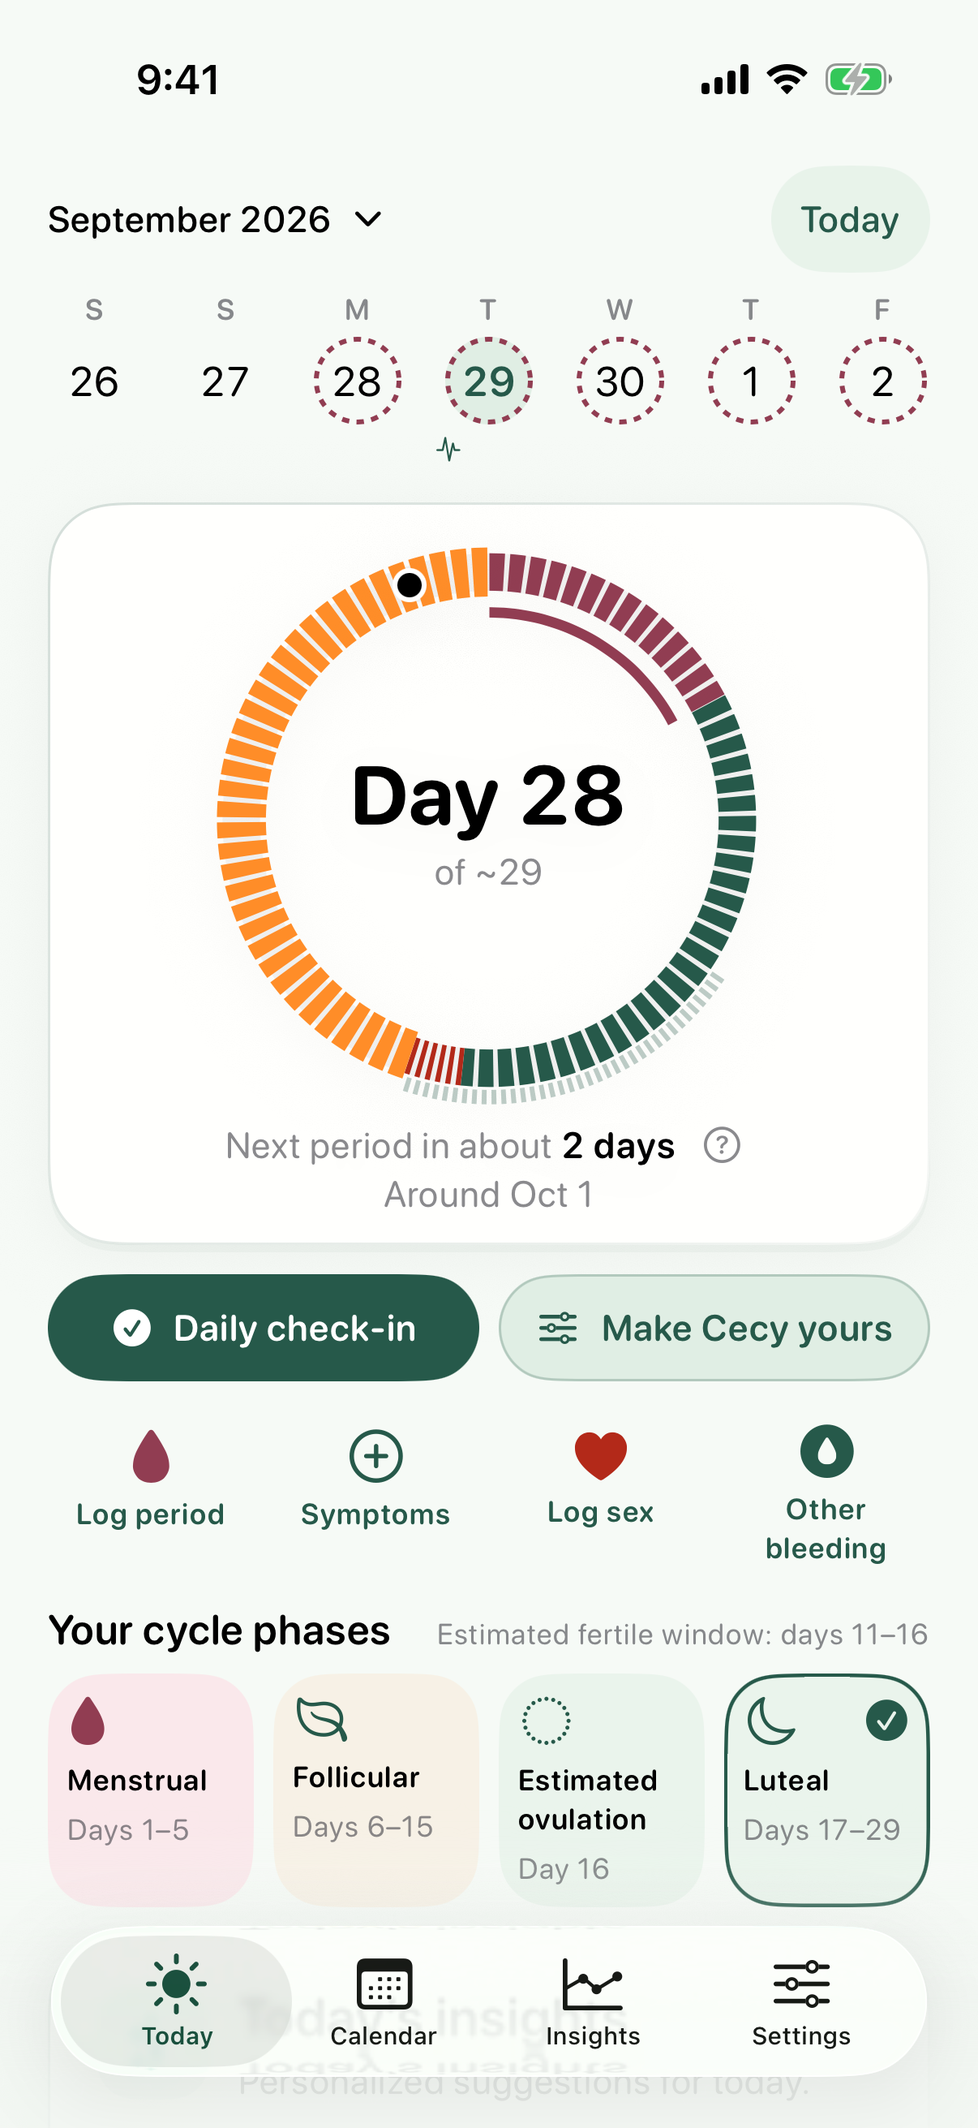
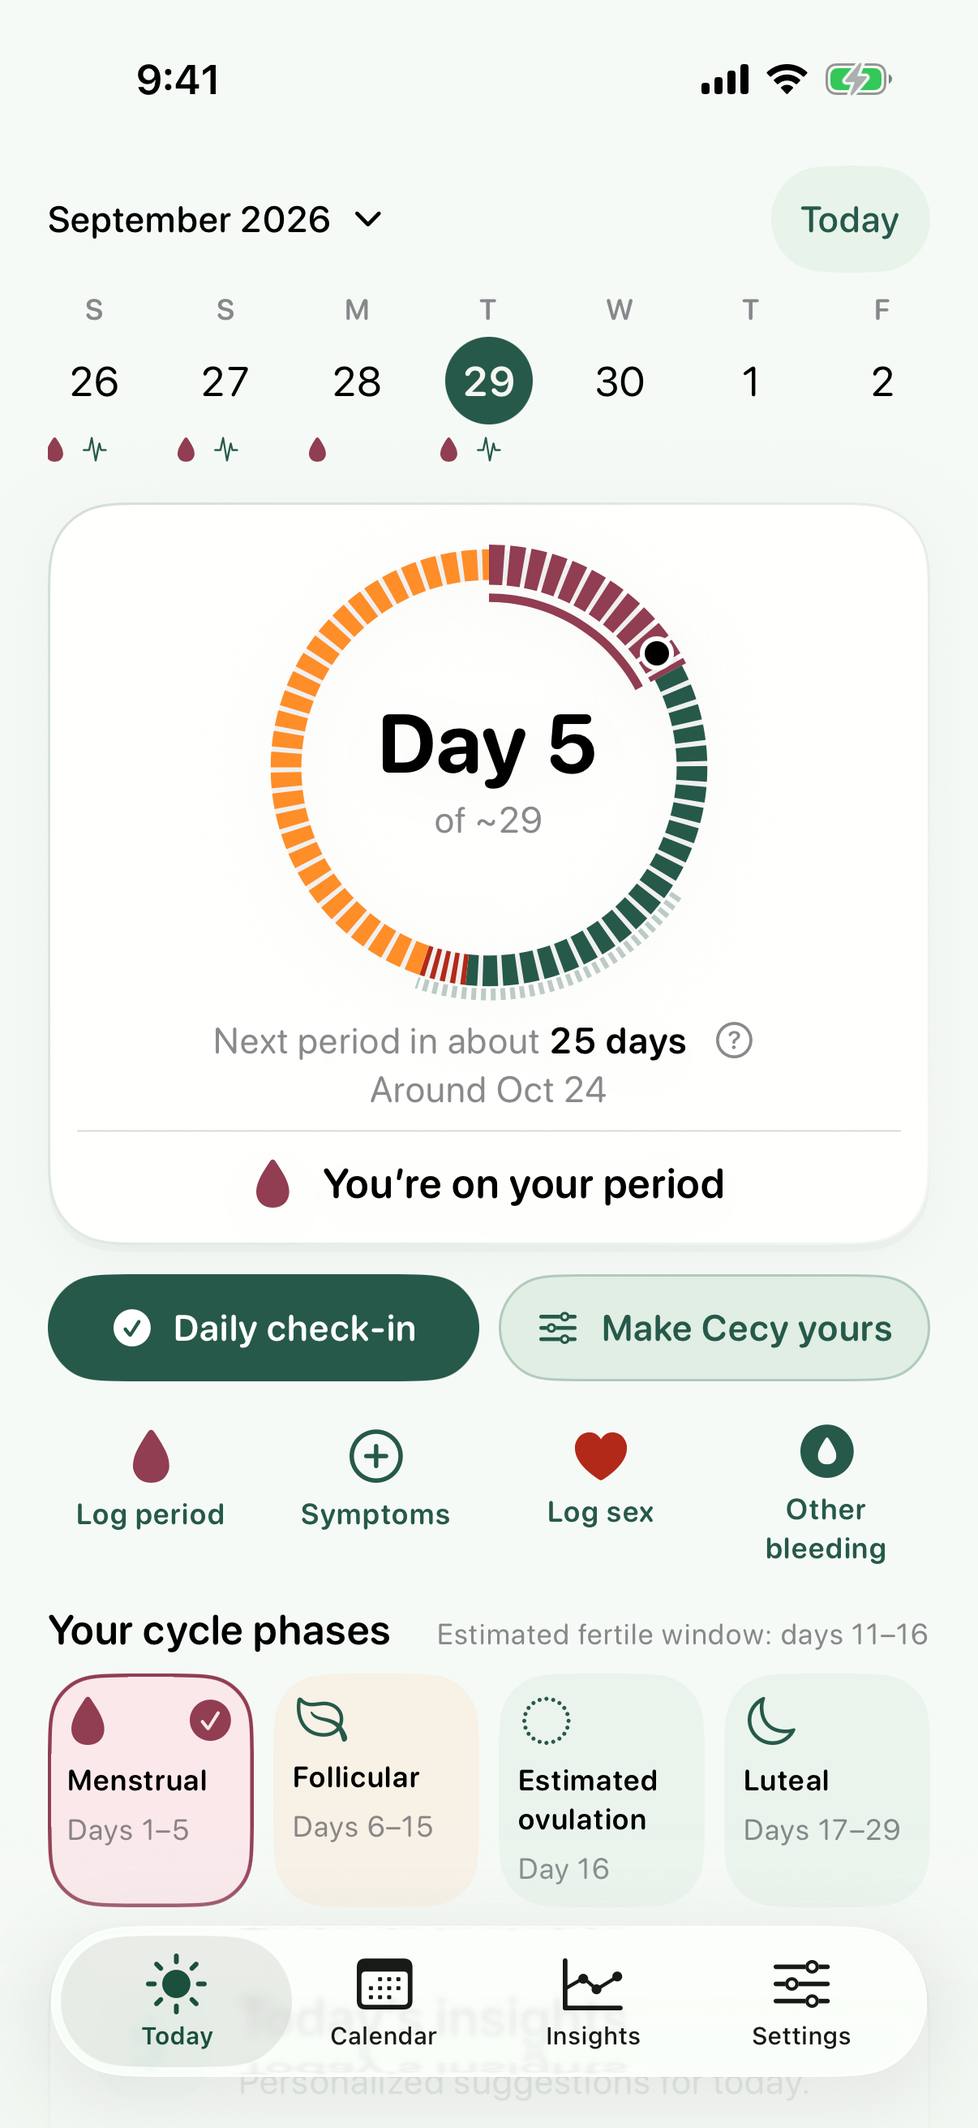
Rich showcase data for App Store screenshots and recapture all sizes

diff --git a/cecy/App/ShowcaseFixture.swift b/cecy/App/ShowcaseFixture.swift
@@ -1,0 +1,150 @@
+#if DEBUG
+import Foundation
+
+/// App Store screenshot data: six months of realistic, internally consistent records so every
+/// screenshotted screen (Today, check-in, Calendar, Insights, summary) has content. UI tests only.
+enum ShowcaseFixture {
+    static func seed(_ repository: SwiftDataPeriodRepository, now: Date) throws {
+        let today = try LocalDay(key: 20260929)
+        guard try repository.load().onboardingCompletedAt == nil else { return }
+
+        // Periods: natural 27–30 day cycles with 4–6 day periods.
+        let spans: [(Int, Int, PeriodFlow)] = [
+            (20260406, 5, .moderate), (20260504, 5, .heavy), (20260602, 4, .moderate),
+            (20260701, 6, .heavy), (20260729, 5, .moderate), (20260827, 5, .moderate), (20260925, 5, .heavy),
+        ]
+        var periods: [Period] = []
+        for (key, length, flow) in spans {
+            let start = try LocalDay(key: key)
+            let end = try start.adding(days: length - 1)
+            periods.append(Period(start: start, end: end <= today ? end : nil, flow: flow,
+                                  notes: key == 20260701 ? "Heavier than usual, needed extra rest." : nil,
+                                  createdAt: now, updatedAt: now))
+        }
+        _ = try repository.add(periods, completingOnboarding: true, today: today, now: now)
+
+        var profile = LocalProfile()
+        profile.preferredName = "Maya"
+        profile.birthDayKey = 19950512
+        profile.typicalPeriodDays = 5
+        profile.typicalCycleDays = 29
+        profile.wellnessPreferences = WellnessPreferences(activityLevel: .moderatelyActive, preferredExercises: [.walking],
+            dietaryPreference: .vegetarian, foodAllergyStatus: .listed, foodAllergies: ["Peanuts"], goals: [.manageSymptoms])
+        _ = try repository.saveProfile(profile, today: today)
+
+        // Daily bleeding: a flow curve for every period day, spotting before some periods, dry days lately.
+        var review = BleedingReconciliation(snapshot: try repository.load())
+        let curve: [PeriodFlow] = [.moderate, .heavy, .moderate, .light, .light, .light]
+        for period in review.periods {
+            let last = period.end ?? today
+            var day = period.start
+            var index = 0
+            while day <= last && day <= today {
+                review.observations.append(DailyBleedingObservation(day: day, state: .bleeding, flow: curve[min(index, curve.count - 1)],
+                                                                    periodID: period.id, createdAt: now))
+                day = try day.adding(days: 1); index += 1
+            }
+            if period.start.key != 20260406 {
+                review.observations.append(DailyBleedingObservation(day: try period.start.adding(days: -1), state: .spotting, createdAt: now))
+            }
+        }
+        // Consistent logging: every remaining day since August is answered "no bleeding".
+        let answered = Set(review.observations.map(\.day))
+        var dry = try LocalDay(key: 20260801)
+        while dry <= today {
+            if !answered.contains(dry), !review.periods.contains(where: { $0.contains(dry) }) {
+                review.observations.append(DailyBleedingObservation(day: dry, state: .noBleeding, createdAt: now))
+            }
+            dry = try dry.adding(days: 1)
+        }
+        _ = try repository.reconcileBleeding(review, today: today, now: now)
+
+        // Symptoms that follow the cycle, so patterns and charts have something to show.
+        var symptoms: [SymptomEntry] = []
+        func add(_ day: LocalDay, _ kind: SymptomKind, _ value: Int) {
+            guard day <= today else { return }
+            symptoms.append(SymptomEntry(day: day, kind: kind, value: value, createdAt: now))
+        }
+        for period in periods {
+            let s = period.start
+            add(s, .cramps, 3); add(try s.adding(days: 1), .cramps, 2); add(try s.adding(days: 2), .cramps, 1)
+            add(s, .fatigue, 2); add(try s.adding(days: 1), .fatigue, 3); add(try s.adding(days: 1), .backPain, 2)
+            add(try s.adding(days: 1), .lowMood, 1); add(try s.adding(days: 2), .sleepQuality, 2)
+            add(try s.adding(days: -1), .headache, 2); add(try s.adding(days: -2), .bloating, 2)
+            add(try s.adding(days: -3), .breastTenderness, 2); add(try s.adding(days: -3), .irritability, 2)
+            add(try s.adding(days: -4), .cravings, 3); add(try s.adding(days: -5), .acne, 1)
+            add(try s.adding(days: 8), .energyLevel, 3); add(try s.adding(days: 13), .energyLevel, 3)
+            add(try s.adding(days: 13), .pelvicPain, 1)
+        }
+        add(today, .bloating, 2); add(today, .digestiveChanges, 1)
+        let unique = Dictionary(symptoms.map { ("\($0.day.key)-\($0.kind.rawValue)", $0) }, uniquingKeysWith: { first, _ in first })
+        _ = try repository.addSymptoms(Array(unique.values), today: today, now: now)
+
+        // Intimacy log, a few times per cycle.
+        for key in [20260418, 20260423, 20260517, 20260520, 20260614, 20260619, 20260712, 20260716,
+                    20260809, 20260812, 20260906, 20260911, 20260918] {
+            let kinds: Set<SexualActivityKind> = key % 3 == 0 ? [.vaginalSex, .oralSex] : [.vaginalSex]
+            _ = try repository.saveSexualActivity(SexualActivityEntry(day: try LocalDay(key: key), activities: kinds, createdAt: now),
+                                                  editing: false, today: today, now: now)
+        }
+
+        // Context that explains a longer cycle.
+        _ = try repository.saveCycleFactor(CycleFactor(kind: .stress, start: try LocalDay(key: 20260615), end: try LocalDay(key: 20260626),
+                                                       excludesFromForecast: false, notes: "Project deadline at work", createdAt: now), today: today, now: now)
+        _ = try repository.saveCycleFactor(CycleFactor(kind: .travel, start: try LocalDay(key: 20260810), end: try LocalDay(key: 20260817),
+                                                       excludesFromForecast: false, notes: "Lisbon trip, time-zone change", createdAt: now), today: today, now: now)
+
+        // Supplements with an adherence history.
+        let magnesium = TreatmentRecord(category: .supplement, name: "Magnesium", dose: "200 mg", start: try LocalDay(key: 20260601),
+                                        cadence: .daily, reminderEnabled: true, reminderHour: 21, createdAt: now)
+        let iron = TreatmentRecord(category: .supplement, name: "Iron", dose: "18 mg", start: try LocalDay(key: 20260701),
+                                   cadence: .daily, createdAt: now)
+        let ibuprofen = TreatmentRecord(category: .medication, name: "Ibuprofen", dose: "400 mg", start: try LocalDay(key: 20260406),
+                                        cadence: .asNeeded, createdAt: now)
+        for treatment in [magnesium, iron, ibuprofen] { _ = try repository.saveTreatment(treatment, today: today, now: now) }
+        var day = try LocalDay(key: 20260830)
+        var count = 0
+        while day <= today {
+            let state: AdherenceState = count == 6 ? .missed : count == 15 ? .late : .taken
+            _ = try repository.saveTreatmentAdherence(TreatmentAdherence(treatmentID: magnesium.id, day: day, state: state, createdAt: now),
+                                                      today: today, now: now)
+            if count % 2 == 0 {
+                _ = try repository.saveTreatmentAdherence(TreatmentAdherence(treatmentID: iron.id, day: day, state: .taken, createdAt: now),
+                                                          today: today, now: now)
+            }
+            day = try day.adding(days: 1); count += 1
+        }
+        for period in periods.suffix(4) {
+            _ = try repository.saveTreatmentAdherence(TreatmentAdherence(treatmentID: ibuprofen.id, day: period.start, state: .taken,
+                                                                         notes: "For cramps", createdAt: now), today: today, now: now)
+        }
+
+        // Body signals: a biphasic temperature curve, LH tests and mucus around ovulation, heart rate and sleep.
+        var p2 = try repository.load().p2
+        let cycleStarts = periods.map(\.start) + [try LocalDay(key: 20261024)]
+        var cursor = try LocalDay(key: 20260720)
+        while cursor <= today {
+            guard let start = cycleStarts.last(where: { $0 <= cursor }) else { break }
+            let cycleDay = start.days(until: cursor) + 1
+            let luteal = cycleDay >= 16
+            let wobble = Double((cursor.key * 7) % 5) * 0.03
+            p2.biomarkers.append(BiomarkerEntry(day: cursor, kind: .basalBodyTemperature,
+                                                numericValue: (luteal ? 36.68 : 36.32) + wobble, createdAt: now))
+            p2.biomarkers.append(BiomarkerEntry(day: cursor, kind: .restingHeartRate,
+                                                numericValue: (luteal ? 64 : 60) + Double((cursor.key * 3) % 4),
+                                                provenance: .appleHealth, sourceName: "Apple Watch", createdAt: now))
+            p2.biomarkers.append(BiomarkerEntry(day: cursor, kind: .sleepDuration,
+                                                numericValue: 6.6 + Double((cursor.key * 11) % 9) * 0.2,
+                                                provenance: .appleHealth, sourceName: "Apple Watch", createdAt: now))
+            if (11...15).contains(cycleDay) {
+                p2.biomarkers.append(BiomarkerEntry(day: cursor, kind: .lhTest, result: cycleDay == 13 ? .positive : cycleDay == 14 ? .high : .negative,
+                                                    createdAt: now))
+                p2.biomarkers.append(BiomarkerEntry(day: cursor, kind: .cervicalMucus,
+                                                    result: cycleDay == 13 ? .eggWhite : cycleDay == 12 || cycleDay == 14 ? .watery : .creamy, createdAt: now))
+            }
+            cursor = try cursor.adding(days: 1)
+        }
+        _ = try repository.saveP2Data(p2, today: today)
+    }
+}
+#endif

diff --git a/cecy/App/TrackerSession.swift b/cecy/App/TrackerSession.swift
@@ -750,10 +750,8 @@ final class TrackerSession {
             let fixed = ISO8601DateFormatter().date(from: "2026-09-29T12:00:00Z")!
             return TrackerSession(repository: {
                 let repository = try SwiftDataPeriodRepository.local(url: url)
-                let requested = ProcessInfo.processInfo.environment["CECY_UI_FIXTURE"]
-                // "showcase" is the App Store screenshot data set: the "ai" history plus a richer symptom log.
-                let showcase = requested == "showcase"
-                let fixture = showcase ? "ai" : requested
+                let fixture = ProcessInfo.processInfo.environment["CECY_UI_FIXTURE"]
+                if fixture == "showcase" { try ShowcaseFixture.seed(repository, now: fixed) }
                 if fixture == "history" || fixture == "patterns" || fixture == "wellness" || fixture == "ai" || fixture == "sparse" || fixture == "oldStart",
                    try repository.load().onboardingCompletedAt == nil {
                     let keys = fixture == "oldStart" ? [20260101] : fixture == "sparse" ? [20260902] : fixture == "patterns" || fixture == "ai" ? [20260410, 20260509, 20260607, 20260705, 20260804, 20260902]
@@ -765,7 +763,7 @@ final class TrackerSession {
                     _ = try repository.add(periods, completingOnboarding: true, today: LocalDay(key: 20260929), now: fixed)
                     if fixture == "wellness" || fixture == "ai" || fixture == "sparse" || fixture == "oldStart" {
                         var profile = LocalProfile()
-                        profile.preferredName = showcase ? "Maya" : "Synthetic Alex"
+                        profile.preferredName = "Synthetic Alex"
                         profile.birthDayKey = 19950512
                         profile.typicalPeriodDays = 5
                         if fixture == "sparse" || fixture == "oldStart" {
@@ -786,20 +784,6 @@ final class TrackerSession {
                             let entry = try SymptomEntry(day: period.start.adding(days: -1), kind: .headache)
                             _ = try repository.saveSymptom(entry, editing: false, today: LocalDay(key: 20260929), now: fixed)
                         }
-                    }
-                    if showcase {
-                        let today = try LocalDay(key: 20260929)
-                        var entries: [SymptomEntry] = []
-                        for period in periods {
-                            entries += [try SymptomEntry(day: period.start, kind: .cramps, value: 3),
-                                        try SymptomEntry(day: period.start.adding(days: 1), kind: .fatigue, value: 2),
-                                        try SymptomEntry(day: period.start.adding(days: -3), kind: .bloating, value: 2),
-                                        try SymptomEntry(day: period.start.adding(days: -2), kind: .moodChanges, value: 2),
-                                        try SymptomEntry(day: period.start.adding(days: 14), kind: .energyLevel, value: 3)]
-                        }
-                        entries += [try SymptomEntry(day: today, kind: .bloating, value: 2),
-                                    try SymptomEntry(day: today, kind: .cravings, value: 2)]
-                        _ = try repository.addSymptoms(entries.filter { $0.day <= today }, today: today, now: fixed)
                     }
                 }
                 // Follow-up questions: setup finished a month ago, and the latest cycle (39 days)

diff --git a/cecyUITests/AppStoreScreenshots.swift b/cecyUITests/AppStoreScreenshots.swift
@@ -13,12 +13,15 @@ final class AppStoreScreenshots: XCTestCase {
         let app = XCUIApplication()
         app.launchEnvironment["CECY_UI_TEST_ID"] = UUID().uuidString
         app.launchEnvironment["CECY_UI_APPLE_AUTH"] = "success"
-        app.launchEnvironment["CECY_UI_AI"] = "success"
+        app.launchEnvironment["CECY_UI_AI"] = "showcase"
         if let fixture { app.launchEnvironment["CECY_UI_FIXTURE"] = fixture }
         app.launchArguments = ["-AppleLanguages", "(en)", "-AppleLocale", "en_US"]
         app.launch()
+        current = app
         return app
     }
+
+    private var current: XCUIApplication?
 
     @MainActor private func shot(_ name: String) {
         sleep(1) // let animations settle
@@ -32,6 +35,9 @@ final class AppStoreScreenshots: XCTestCase {
         let folder = directory.appendingPathComponent(size, isDirectory: true)
         try? FileManager.default.createDirectory(at: folder, withIntermediateDirectories: true)
         try? screenshot.pngRepresentation.write(to: folder.appendingPathComponent("\(name).png"))
+        // Text dump of what is on screen, for checking content without opening images.
+        let labels = current?.staticTexts.allElementsBoundByIndex.filter { $0.isHittable }.map(\.label).joined(separator: "\n") ?? ""
+        try? labels.write(to: folder.appendingPathComponent("\(name).txt"), atomically: true, encoding: .utf8)
     }
 
     @MainActor private func tab(_ title: String, in app: XCUIApplication) {
@@ -55,6 +61,13 @@ final class AppStoreScreenshots: XCTestCase {
 
         app = launch(fixture: "showcase")
         _ = app.tabBars.buttons["Today"].waitForExistence(timeout: 15)
+        let prepare = app.buttons["prepareDailyInsights"]
+        if prepare.waitForExistence(timeout: 3) {
+            if !prepare.isHittable { app.swipeUp(velocity: .slow) }
+            prepare.tap()
+            _ = app.otherElements["dailyInsightsCard"].waitForExistence(timeout: 8)
+            app.swipeDown(velocity: .fast); app.swipeDown(velocity: .fast)
+        }
         shot("02_today")
         let today = app.scrollViews.firstMatch.exists ? app.scrollViews.firstMatch : app.collectionViews.firstMatch
         today.swipeUp(velocity: .slow); today.swipeUp(velocity: .slow)
@@ -81,9 +94,21 @@ final class AppStoreScreenshots: XCTestCase {
         for _ in 0..<4 where !summary.exists || !summary.isHittable { app.swipeUp(velocity: .slow) }
         if summary.exists && summary.isHittable {
             summary.tap()
+            let preview = app.buttons["previewSummary"]
+            _ = app.staticTexts["Prepare your visit"].waitForExistence(timeout: 5)
+            for _ in 0..<8 where !(preview.exists && preview.isHittable) { app.swipeUp(velocity: .slow) }
+            if preview.exists && preview.isHittable {
+                preview.tap()
+                _ = app.staticTexts["summaryPreviewTitle"].waitForExistence(timeout: 5)
+            }
             shot("08_appointment_summary")
         }
 
+        for _ in 0..<3 where !app.tabBars.buttons["Settings"].firstMatch.isHittable {
+            let done = app.navigationBars.buttons["Done"].firstMatch
+            if done.exists { done.tap() } else { app.swipeDown(velocity: .fast) }
+            sleep(1)
+        }
         tab("Settings", in: app)
         shot("09_settings")
     }

diff --git a/cecy/Services/FixtureAIService.swift b/cecy/Services/FixtureAIService.swift
@@ -7,7 +7,7 @@ nonisolated struct FixtureAIService: AIService {
     private func prepare() async throws {
         if mode == "slow" { try await Task.sleep(for: .seconds(20)) }
         else { try await Task.sleep(for: .milliseconds(100)) }
-        guard mode == "success" || mode == "slow" || mode == "catalogV2" else { throw AIServiceError.unavailable }
+        guard mode == "success" || mode == "slow" || mode == "catalogV2" || mode == "showcase" else { throw AIServiceError.unavailable }
     }
     func normalizeSymptoms(text: String) async throws -> SymptomNormalizationResult {
         try await prepare()
@@ -36,6 +36,16 @@ nonisolated struct FixtureAIService: AIService {
         try await prepare()
         return CycleQuestionResult(answer: "Synthetic answer from selected facts", supportingFacts: ["Missing logs are not absence"], safetyMessage: nil)
     }
+    /// Realistic copy for App Store screenshots, keyed by section title.
+    private static let showcase: [String: [String]] = [
+        "Self-care": ["A warm heat pack on your lower belly for 15–20 minutes can ease cramps.", "Plan a lighter evening and an earlier night."],
+        "Food": ["Lentil soup with spinach for iron and fiber.", "Greek yogurt with berries and pumpkin seeds as a snack."],
+        "Movement": ["A 20-minute easy walk outdoors.", "Gentle hip-opening stretches before bed."],
+        "Hydration": ["Aim for 8 glasses of water; warm ginger tea counts and may help bloating."],
+        "Recovery": ["Magnesium with dinner, as you’ve been taking it.", "Keep screens off 30 minutes before sleep."],
+        "Skincare": ["Use a gentle cleanser; hormonal shifts can make skin more sensitive this week."],
+    ]
+
     func getDailyInsights(context: DailyInsightsContext) async throws -> DailyInsightsResult {
         try await prepare()
         let food = context.preferences.dietaryPreference == nil || context.preferences.foodAllergies == nil
@@ -45,9 +55,15 @@ nonisolated struct FixtureAIService: AIService {
             case .food where food: DailyInsightSection(kind: kind, unavailable: .missingPreferences)
             case .movement where context.hasSevereSymptom: DailyInsightSection(kind: kind, unavailable: .safetyLimit)
             case .movement where movement: DailyInsightSection(kind: kind, unavailable: .missingPreferences)
+            case _ where mode == "showcase": DailyInsightSection(kind: kind, suggestions: Self.showcase[kind.title] ?? ["Take it slow today and notice how you feel."])
             case .movement: DailyInsightSection(kind: kind, suggestions: ["Synthetic gentle movement"])
             default: DailyInsightSection(kind: kind, suggestions: ["Synthetic \(kind.title.lowercased()) suggestion"])
             }
+        }
+        if mode == "showcase" {
+            return DailyInsightsResult(sections: sections,
+                explanation: "You logged cramps, fatigue and bloating on day 5 of your period, so today leans toward warmth, iron-rich food and gentle movement.",
+                safetyMessage: nil)
         }
         return DailyInsightsResult(sections: sections, explanation: "Synthetic wellness explanation based on supplied symptoms.",
                                    safetyMessage: context.hasSevereSymptom ? "Synthetic safety message" : nil)

diff --git a/cecy/App/TrackerPrivacy.swift b/cecy/App/TrackerPrivacy.swift
@@ -456,6 +456,11 @@ struct PreparedExport: Identifiable {
         if ProcessInfo.processInfo.environment["CECY_UI_DAILY_POPUP"] != "1", let day = try? LocalDay(key: 20260929) {
             _ = privacy.reserveDailyInsightPresentation(on: day)
         }
+        // App Store screenshots show AI insights as a consenting user would see them.
+        if ProcessInfo.processInfo.environment["CECY_UI_FIXTURE"] == "showcase", privacy.canAccess {
+            _ = privacy.setAIEnabled(true, now: ISO8601DateFormatter().date(from: "2026-09-29T12:00:00Z")!)
+            _ = privacy.setDailyInsightsEnabled(true)
+        }
         // Unrelated UI suites must not be interrupted by follow-up questions. Dedicated tests opt in.
         if ProcessInfo.processInfo.environment["CECY_UI_FOLLOW_UPS"] != "1", privacy.canAccess {
             _ = privacy.setFollowUpsEnabled(false)
